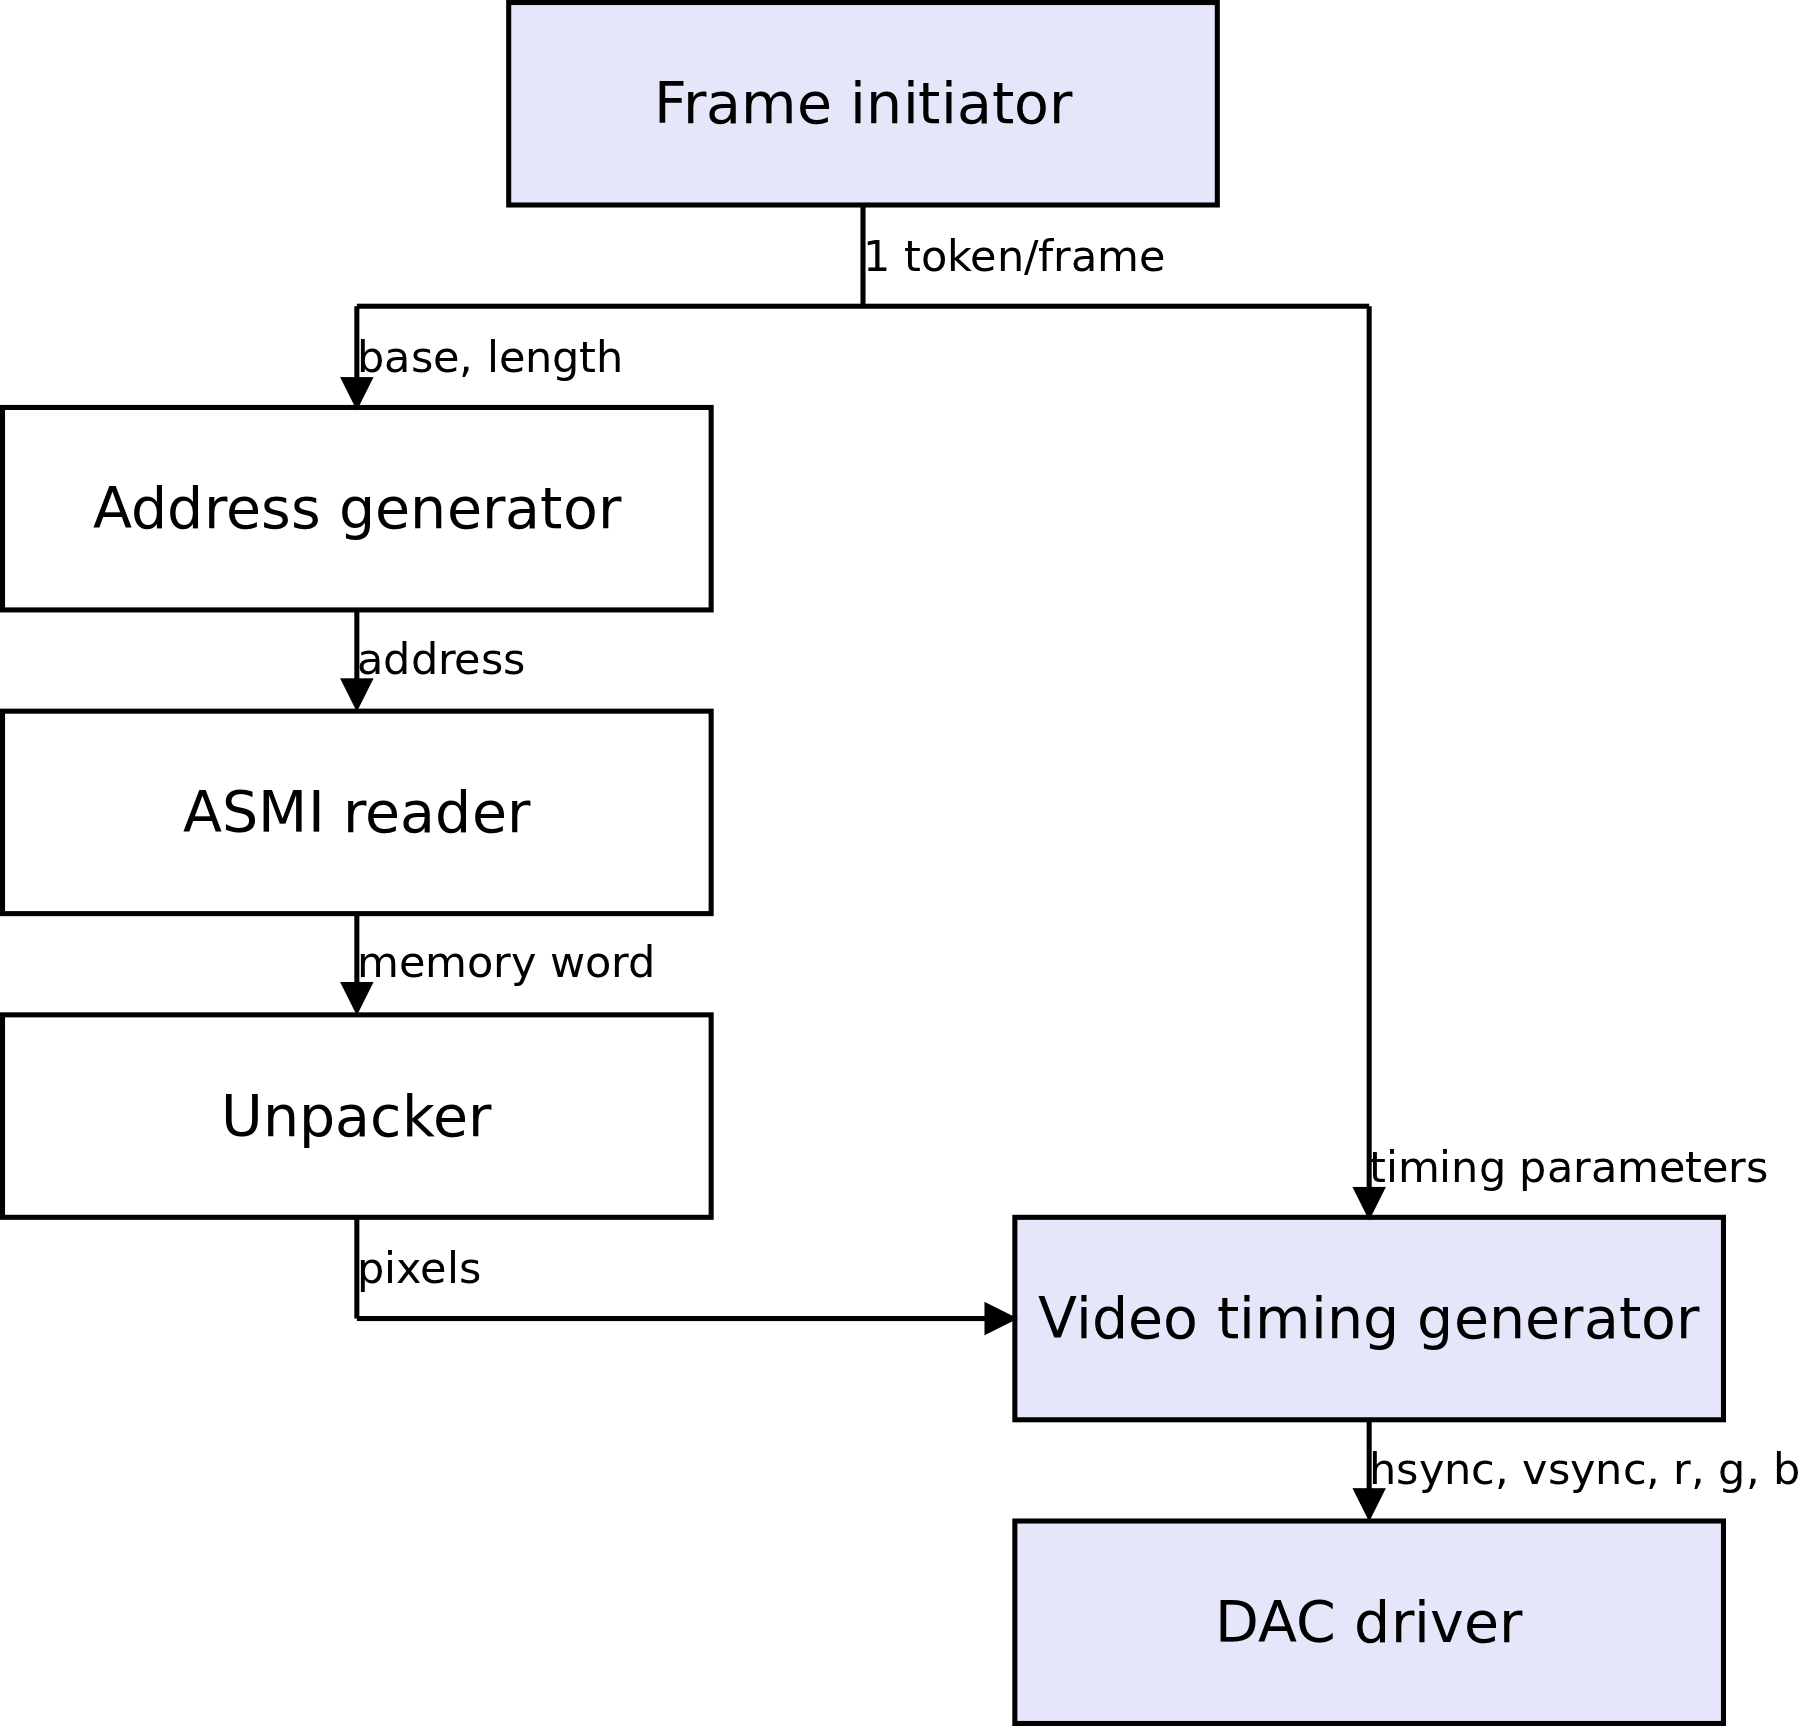
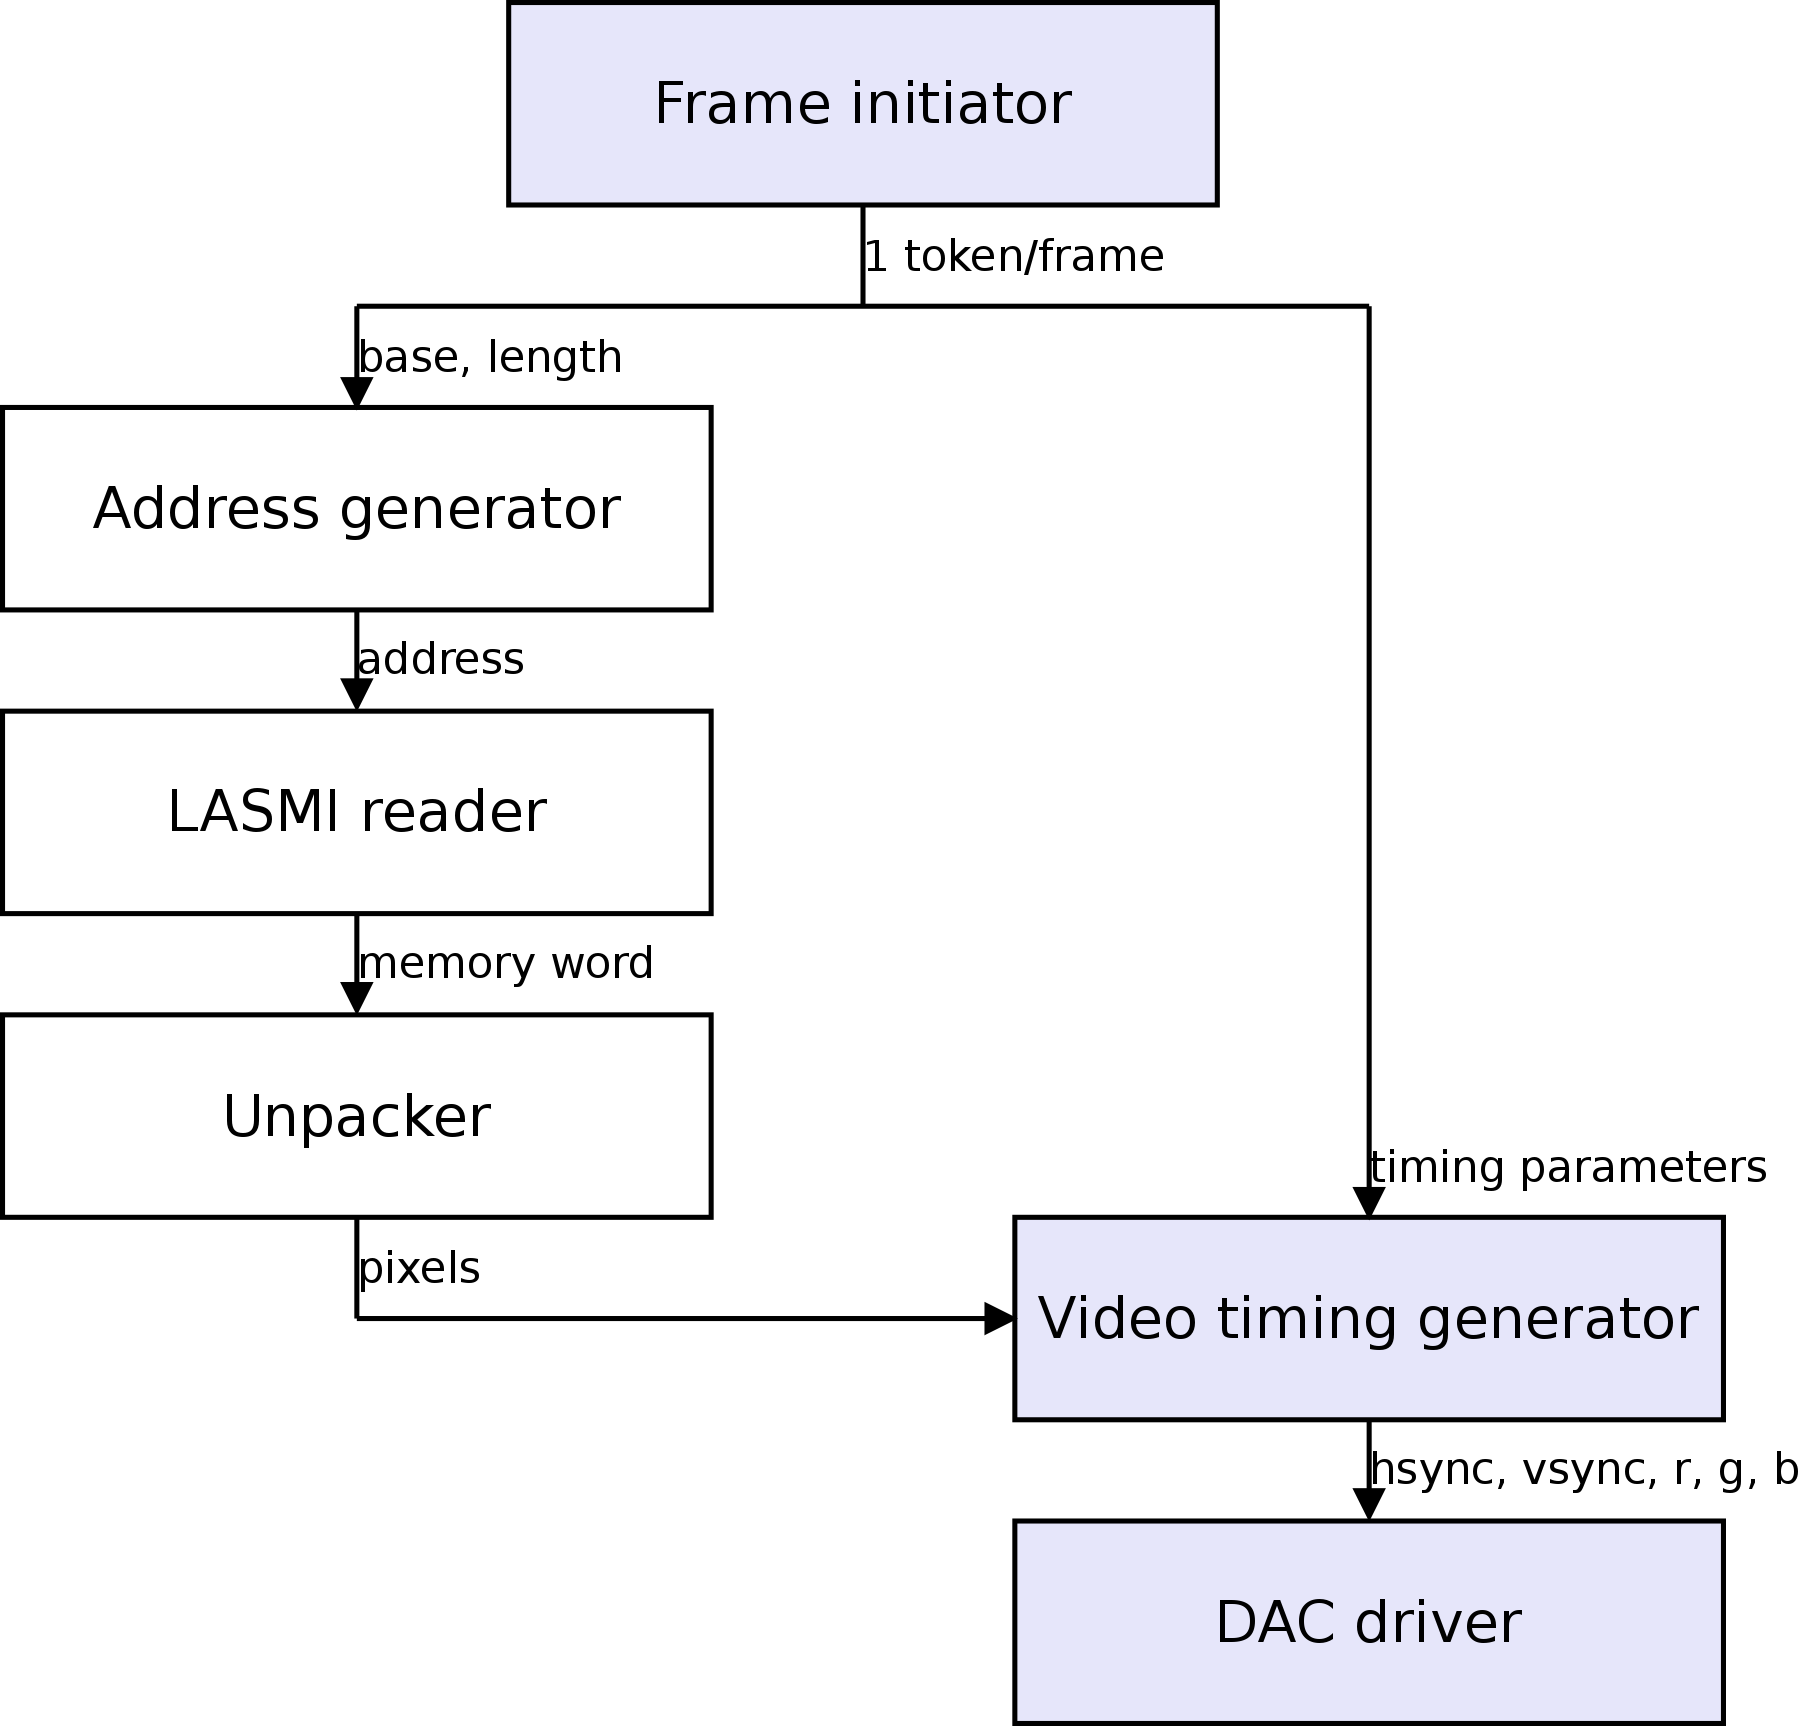
doc: ASMI -> LASMI

diff --git a/doc/casestudies.rst b/doc/casestudies.rst
@@ -39,13 +39,13 @@ To interface with the CPU, the frame initiator uses Migen to provide a CSR bank 
 Pixel fetcher
 =============
 
-The pixel fetcher is made up of the address generator, the ASMI reader and the unpacker.
+The pixel fetcher is made up of the address generator, the LASMI reader and the unpacker.
 
 The address generator is a simple counter that takes one token containing the pair ``(base, length)`` and generates ``length`` tokens containing ``base``, ..., ``base+length-1``. It is implemented using a Migen library component (see :ref:`intsequence`).
 
-Those addresses are fed into the ASMI reader (see :ref:`busactors`) that fetches the corresponding locations from the system memory. The ASMI reader design supports an arbitrary number of outstanding requests (which is equal to the number of slots in its ASMI port), which enables it to sustain a high throughput in spite of memory latency. The ASMI reader also contains a reorder buffer and generates memory word tokens in the order of the supplied address tokens, even if the memory system completes the transactions in a different order (see see :ref:`asmi` for information about reordering). These features make it possible to utilize the available memory bandwidth to the full extent, and reduce the need for on-chip buffering.
+Those addresses are fed into the LASMI reader (see :ref:`busactors`) that fetches the corresponding locations from the system memory. The LASMI reader design supports several outstanding requests, which enables it to sustain a high throughput in spite of memory latency. This feature makes it possible to utilize the available memory bandwidth to the full extent, and reduces the need for on-chip buffering.
 
-ASMI memory words are wide and contain several pixels. The unpacking actor (see :ref:`structuring`) takes a token containing a memory word and "chops" it into multiple tokens containing one pixel each.
+LASMI memory words are wide and contain several pixels. The unpacking actor (see :ref:`structuring`) takes a token containing a memory word and "chops" it into multiple tokens containing one pixel each.
 
 Video timing generator
 ======================

diff --git a/doc/dataflow.rst b/doc/dataflow.rst
@@ -208,19 +208,17 @@ The ``migen.actorlib.dma_wishbone.Writer`` takes a token containing a 30-bit Wis
 
 Only Wishbone classic cycles are supported. The throughput is limited by the Wishbone stall cycles only.
 
-ASMI reader
+LASMI reader
+------------
+
+The ``migen.actorlib.dma_lasmi.Reader`` requires a LASMI master port at instantiation time. This port defines the address and data widths of the actor and how many outstanding transactions are supported.
+
+Input tokens contain the raw LASMI address, and output tokens are wide LASMI data words.
+
+LASMI writer
 -----------
 
-The ``migen.actorlib.dma_asmi.Reader`` requires a ASMI port at instantiation time. This port defines the address and data widths of the actor and how many outstanding transactions are supported.
-
-Input tokens contain the raw ASMI address, and output tokens are wide ASMI data words.
-
-If more than one slot are assigned to the port, the reader actor implements a reorder buffer (so that the order of the output tokens matches that of the input tokens even if the memory system completes transactions out-of-order) and is capable of supporting as many outstanding transactions as there are slots.
-
-ASMI writer
------------
-
-TODO
+Similarly, Migen provides a LASMI writer actor that accepts tokens containing an address and write data (in the same format as a LASMI word).
 
 Miscellaneous actors
 ====================
